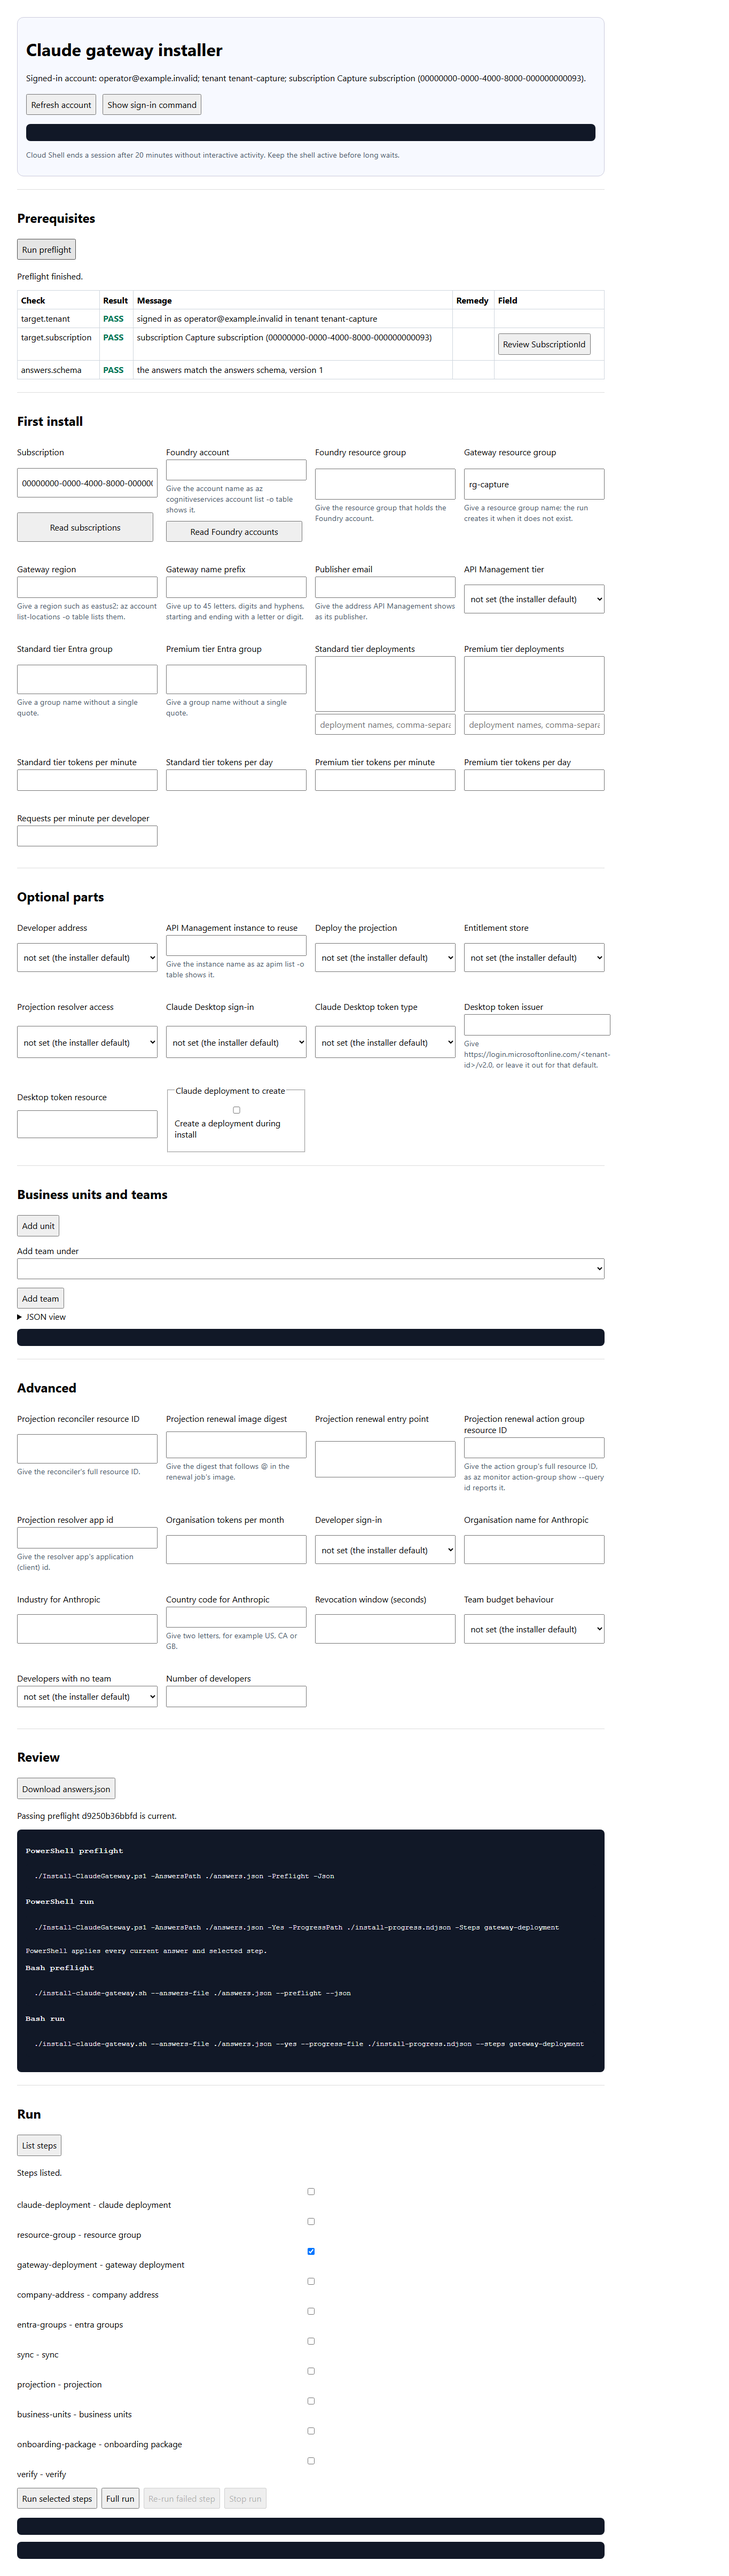
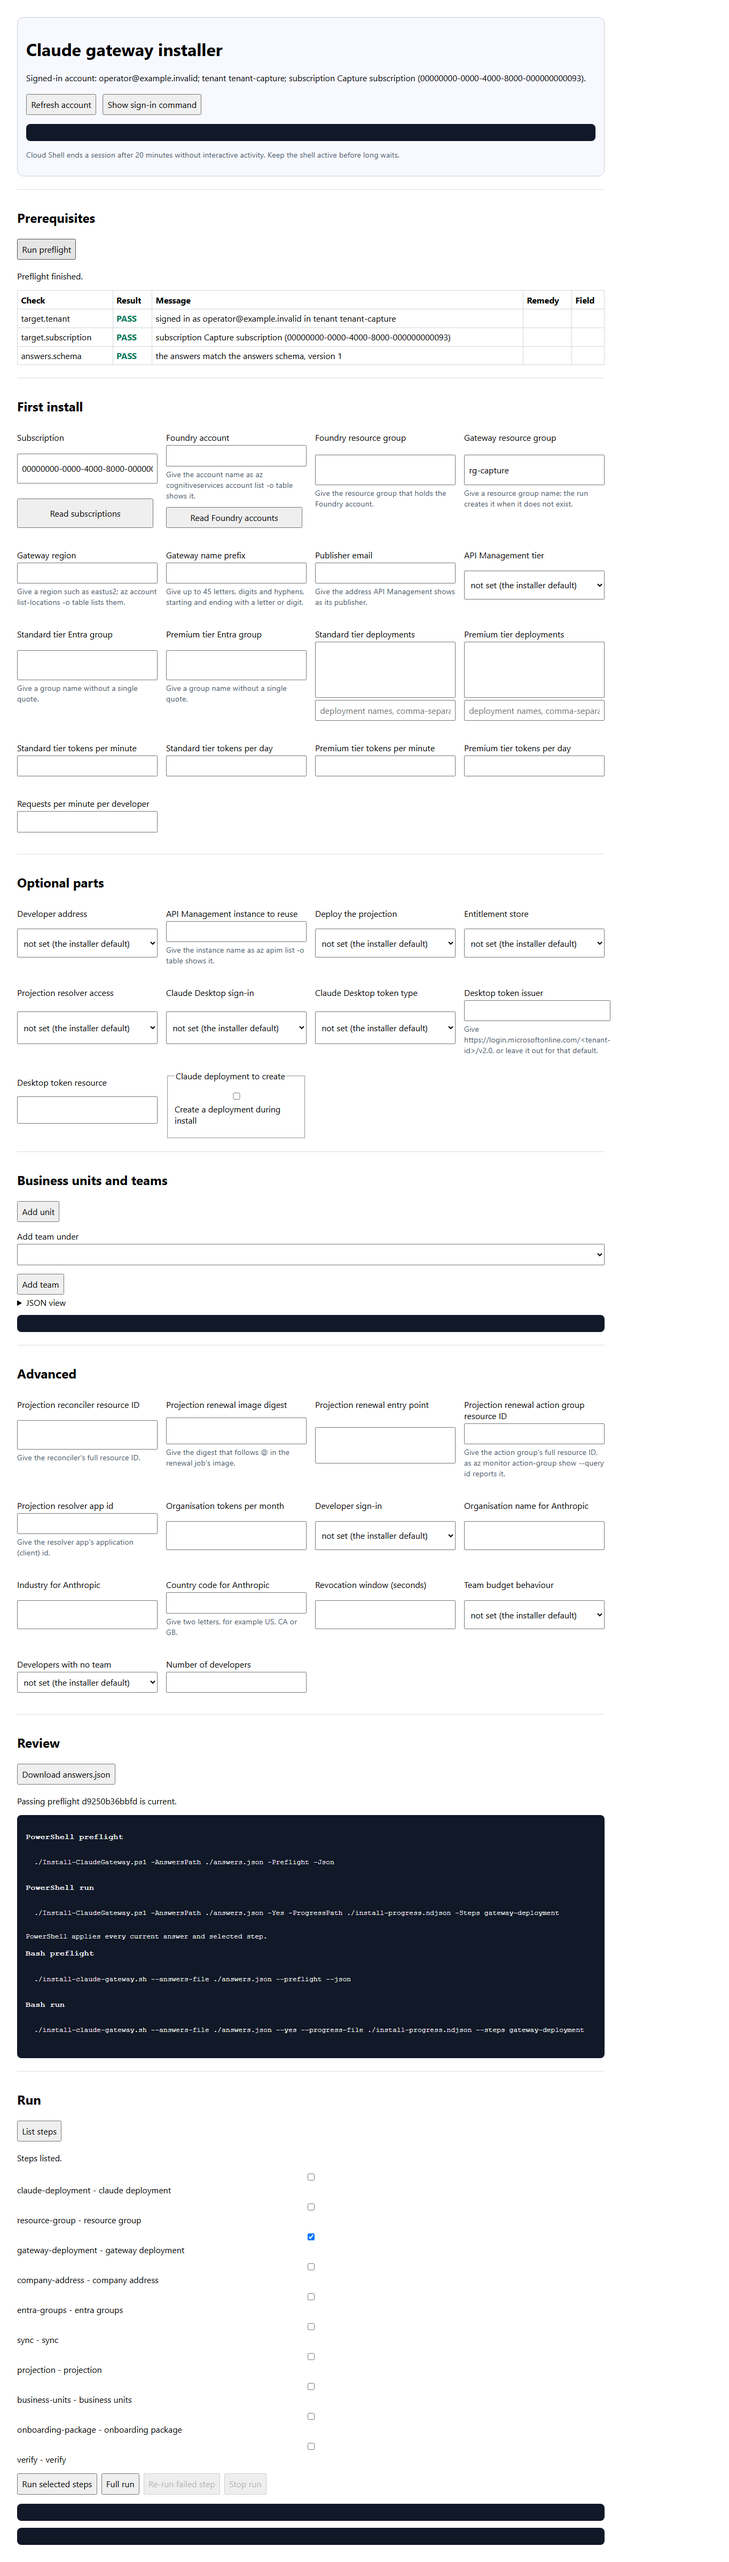
fix(p93): link fields only for failed preflight checks
PASS and NOT-RUN preflight rows should not show field review buttons or mark answers invalid. The page now produces field links only for FAIL checks, the G4 route test covers PASS and NOT-RUN rows, and the screenshots were recaptured without PASS-row review buttons.

Copilot-Session: 82d776f3-e908-44ed-80ff-1eb8b6c2fb34

diff --git a/tools/installer-ui/installer-ui-problems.js b/tools/installer-ui/installer-ui-problems.js
@@ -37,6 +37,7 @@
     }
 
     function preflightProblemPaths(check) {
+      if (check.result !== "FAIL") return [];
       const out = [];
       for (const problem of check.problems || []) {
         if (problem.path) out.push({ path: problem.path, message: problem.message, remedy: problem.remedy });
